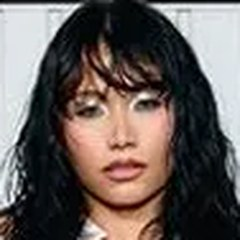
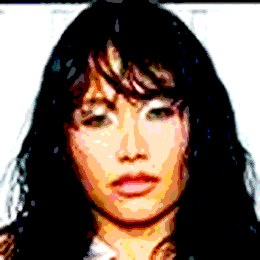
Telefonda kasmayı azalt, kalp fotoğrafları büyüt, balonları indir
- Çizgi film filtresi ve kalp kesimi/gölgesi resimlere önceden uygulandı (runtime SVG filtre ve clip-path yok)
- Spot ışıklarındaki blend, buzlu cam (backdrop-filter), başlık glitch'i ve sabit arka plan kaldırıldı
- Konfeti ve süzülen nesneler azaltıldı, vuruş efektleri Web Animations ile
- Kalp fotoğraflar büyütüldü, konuşma balonları kafalara yaklaştırıldı

diff --git a/style.css b/style.css
@@ -28,7 +28,7 @@ html, body {
 body {
   font-family: "Quicksand", system-ui, sans-serif;
   color: var(--text);
-  background: radial-gradient(ellipse at top, var(--bg-3) 0%, var(--bg-2) 45%, var(--bg-1) 100%) fixed;
+  background: radial-gradient(ellipse at top, var(--bg-3) 0%, var(--bg-2) 45%, var(--bg-1) 100%);
   -webkit-tap-highlight-color: transparent;
   touch-action: manipulation;
 }
@@ -52,10 +52,10 @@ body {
   width: 70vmax;
   height: 130vh;
   pointer-events: none;
-  background: linear-gradient(to bottom, rgba(255, 255, 255, 0.55), rgba(255, 255, 255, 0) 85%);
+  background: linear-gradient(to bottom, rgba(255, 255, 255, 0.22), rgba(255, 255, 255, 0) 85%);
   clip-path: polygon(47% 0, 53% 0, 100% 100%, 0 100%);
   transform-origin: 50% 0;
-  mix-blend-mode: soft-light;
+  will-change: transform;
   opacity: 0;
   transition: opacity 1s;
 }
@@ -135,7 +135,7 @@ button { font: inherit; cursor: pointer; border: 0; background: none; color: inh
   width: 1px; height: 70px;
   background: rgba(255, 255, 255, 0.5);
 }
-.photo-float { width: 60px; height: 60px; clip-path: url(#heartClip); object-fit: cover; opacity: 0.5; }
+.photo-float { width: 60px; height: 60px; object-fit: contain; opacity: 0.6; }
 
 /* ---------- Açılış ---------- */
 #gate {
@@ -266,32 +266,9 @@ button { font: inherit; cursor: pointer; border: 0; background: none; color: inh
   animation: wobble 2.6s ease-in-out infinite;
 }
 .title .name { color: var(--gold); display: inline-block; animation: nameZoom 1.3s ease-in-out infinite; }
-.title::before, .title::after {
-  content: attr(data-text);
-  position: absolute;
-  inset: 0;
-  white-space: pre-line;
-  text-shadow: none;
-  opacity: 0;
-  pointer-events: none;
-}
-.title::before { color: #00f0ff; animation: glitchA 3.2s steps(1) infinite; }
-.title::after { color: #ff2d75; animation: glitchB 3.2s steps(1) infinite; }
 
 @keyframes wobble { 0%, 100% { transform: rotate(-2deg); } 50% { transform: rotate(2deg); } }
 @keyframes nameZoom { 0%, 100% { transform: scale(1); } 50% { transform: scale(1.12) rotate(-3deg); } }
-@keyframes glitchA {
-  0%, 86%, 100% { opacity: 0; }
-  87% { opacity: 0.85; transform: translate(-5px, 2px); clip-path: inset(10% 0 55% 0); }
-  90% { opacity: 0.85; transform: translate(4px, -2px); clip-path: inset(60% 0 8% 0); }
-  93% { opacity: 0.85; transform: translate(-3px, 0); clip-path: inset(35% 0 35% 0); }
-}
-@keyframes glitchB {
-  0%, 87%, 100% { opacity: 0; }
-  88% { opacity: 0.85; transform: translate(5px, -1px); clip-path: inset(50% 0 20% 0); }
-  91% { opacity: 0.85; transform: translate(-4px, 2px); clip-path: inset(5% 0 70% 0); }
-  94% { opacity: 0.85; transform: translate(3px, 1px); clip-path: inset(70% 0 5% 0); }
-}
 
 .title.beat { animation: beatPop 0.25s ease-out; }
 @keyframes beatPop { from { transform: scale(1.08); } to { transform: scale(1); } }
@@ -427,7 +404,7 @@ button { font: inherit; cursor: pointer; border: 0; background: none; color: inh
   text-shadow: 3px 3px 0 var(--ink);
   animation: micPulse 1s ease-in-out infinite;
 }
-@keyframes micPulse { 0%, 100% { transform: scale(1); } 50% { transform: scale(1.12) rotate(-2deg); color: var(--gold); } }
+@keyframes micPulse { 0%, 100% { transform: scale(1); } 50% { transform: scale(1.12) rotate(-2deg); } }
 
 /* ---------- Karakterler ---------- */
 .stage { position: absolute; left: 0; right: 0; bottom: 0; height: var(--stage-h); z-index: 3; pointer-events: none; }
@@ -487,7 +464,7 @@ button { font: inherit; cursor: pointer; border: 0; background: none; color: inh
 @keyframes enterRight { from { transform: translateX(100vw); } to { transform: none; } }
 @keyframes dropIn { from { transform: translateY(-110vh) rotate(-30deg); } to { transform: none; } }
 
-.char-inner { position: relative; animation: var(--idle); transform-origin: 50% 100%; }
+.char-inner { position: relative; animation: var(--idle); transform-origin: 50% 100%; will-change: transform; }
 .char:nth-child(2n) .char-inner { animation-duration: 0.38s; }
 .char:nth-child(3n) .char-inner { animation-duration: 0.52s; }
 
@@ -511,7 +488,6 @@ button { font: inherit; cursor: pointer; border: 0; background: none; color: inh
   object-position: var(--pos, 50% 30%);
   transform: scale(var(--zoom, 1));
 }
-.toon .char-head img { filter: url(#toon) saturate(1.5) contrast(1.15); }
 .face-emoji { display: grid; place-items: center; width: 100%; height: 100%; font-size: calc(var(--size) * 0.72); line-height: 1; }
 
 .char-hat {
@@ -619,16 +595,16 @@ button { font: inherit; cursor: pointer; border: 0; background: none; color: inh
 .bubble {
   --shift: 0px;
   position: absolute;
-  bottom: calc(100% + 16px);
+  bottom: calc(100% + 4px);
   left: 50%;
   width: max-content;
-  max-width: min(64vw, 250px);
-  padding: 8px 13px;
+  max-width: min(86vw, 330px);
+  padding: 6px 12px;
   border-radius: 16px;
   background: #fff;
   color: var(--ink);
   font-weight: 700;
-  font-size: clamp(0.85rem, 3.6vw, 1rem);
+  font-size: clamp(0.8rem, 3.4vw, 1rem);
   line-height: 1.25;
   text-align: center;
   border: 3px solid var(--ink);
@@ -719,7 +695,6 @@ button { font: inherit; cursor: pointer; border: 0; background: none; color: inh
   left: var(--x);
   top: var(--y);
   translate: -50% -50%;
-  filter: drop-shadow(0 6px 10px rgba(0, 0, 0, 0.4)) drop-shadow(0 0 1px #fff);
   cursor: pointer;
   opacity: 0;
   transform: translate(var(--fromX), var(--fromY)) scale(0.2) rotate(var(--rot));
@@ -731,8 +706,7 @@ button { font: inherit; cursor: pointer; border: 0; background: none; color: inh
   display: block;
   width: 100%;
   height: 100%;
-  object-fit: cover;
-  clip-path: url(#heartClip);
+  object-fit: contain;
   animation: heartbeat 1.8s ease-in-out infinite;
   animation-delay: var(--delay);
 }
@@ -760,11 +734,10 @@ button { font: inherit; cursor: pointer; border: 0; background: none; color: inh
   display: grid;
   place-items: center;
   background: rgba(15, 5, 30, 0.85);
-  backdrop-filter: blur(6px);
   padding: 16px;
   cursor: zoom-out;
 }
-.lightbox img { width: min(86vw, 520px); aspect-ratio: 1; object-fit: cover; clip-path: url(#heartClip); animation: popHeart 0.5s cubic-bezier(.3, 1.6, .5, 1); }
+.lightbox img { width: min(86vw, 520px); aspect-ratio: 1; object-fit: contain; animation: popHeart 0.5s cubic-bezier(.3, 1.6, .5, 1); }
 @keyframes popHeart { from { transform: scale(0.2) rotate(-20deg); } to { transform: scale(1) rotate(0); } }
 
 /* ---------- Müzik ---------- */
@@ -776,9 +749,8 @@ button { font: inherit; cursor: pointer; border: 0; background: none; color: inh
   width: 42px; height: 42px;
   border-radius: 50%;
   font-size: 1.15rem;
-  background: var(--card);
+  background: rgba(27, 16, 53, 0.55);
   border: 1px solid var(--card-border);
-  backdrop-filter: blur(6px);
 }
 
 /* ---------- Ekran boyutları ---------- */

diff --git a/script.js b/script.js
@@ -29,9 +29,9 @@
   function sideCannons(duration = 2500, colors = COLORS) {
     const end = Date.now() + duration;
     (function frame() {
-      fire({ particleCount: 4, angle: 60, spread: 60, startVelocity: 60, origin: { x: 0, y: 0.75 }, colors });
-      fire({ particleCount: 4, angle: 120, spread: 60, startVelocity: 60, origin: { x: 1, y: 0.75 }, colors });
-      if (Date.now() < end) setTimeout(frame, 16);
+      fire({ particleCount: 3, angle: 60, spread: 60, startVelocity: 60, origin: { x: 0, y: 0.75 }, colors, ticks: 150 });
+      fire({ particleCount: 3, angle: 120, spread: 60, startVelocity: 60, origin: { x: 1, y: 0.75 }, colors, ticks: 150 });
+      if (Date.now() < end) setTimeout(frame, 45);
     })();
   }
 
@@ -44,7 +44,7 @@
     for (let i = 0; i < times; i++) {
       setTimeout(() => {
         fire({
-          particleCount: 70,
+          particleCount: 40,
           spread: 360,
           startVelocity: 32,
           ticks: 80,
@@ -153,7 +153,6 @@
 
   // Başta sahnede sadece taçlı Hikmet var
   function spawnHero() {
-    if (cfg.toon) document.body.classList.add("toon");
     heroEl = makeChar(cfg.hero || {}, { hero: true, face: "🥳", x: 50, enter: "enter-d", delay: 0.2 });
     $("#stage").appendChild(heroEl);
   }
@@ -298,7 +297,7 @@
     shake();
     fireworks(6);
     sideCannons(2000);
-    setTimeout(() => emojiRain(35), 300);
+    setTimeout(() => emojiRain(22), 300);
     await sleep(400);
     $(".cake-wrap").hidden = true;
     startConcert();
@@ -370,6 +369,10 @@
     crewEls.forEach((ch, i) => (ch.style.left = `${FORMATIONS[f][i]}%`));
   }
 
+  const BEAT_HEAD = [{ transform: "scale(1.18)" }, { transform: "scale(1)" }];
+  const BEAT_POP = [{ scale: "1.05" }, { scale: "1" }];
+  const pulse = (el, frames) => el && el.animate && el.animate(frames, { duration: 260, easing: "ease-out" });
+
   function onBeat() {
     if (phase !== "concert") return;
     beatCount++;
@@ -377,10 +380,10 @@
 
     crewEls.forEach((ch) => {
       ch.style.marginLeft = `${step}px`; // sağ-sol adım
-      restartClass(ch, "beat");
+      pulse(ch.querySelector(".char-head"), BEAT_HEAD);
     });
-    restartClass($("#title"), "beat");
-    restartClass($("#photoHeart"), "beat");
+    pulse($("#title"), BEAT_POP);
+    pulse($("#photoHeart"), BEAT_POP);
 
     // Her 4 vuruşta hepsi aynı hareket
     if (beatCount % 4 === 0) {
@@ -763,7 +766,8 @@
     const yMax = Math.max(...ys);
     const yMid = (yMin + yMax) / 2;
 
-    const size = Math.min(W * 0.22, H * 0.3, ((W * 2.75) / items.length) * 1.05);
+    // Kalp resimlerinin kenarında gölge payı var, biraz üst üste binmeleri sorun değil
+    const size = Math.min(W * 0.3, H * 0.38, ((W * 2.75) / items.length) * 1.4);
     const scale = Math.min((W - size) / 32, (H - size) / (yMax - yMin));
     items.forEach((el) => {
       el.style.setProperty("--size", `${size}px`);
@@ -786,7 +790,7 @@
   const CONCERT_EMOJI = ["🩷", "💖", "🎤", "🎀", "💅", "✨", "🌸"];
 
   function spawnFloater() {
-    if (document.hidden || floaters.childElementCount > 22) return;
+    if (document.hidden || floaters.childElementCount > 12) return;
     const roll = Math.random();
     let el;
     if (roll < 0.3) {
@@ -846,7 +850,7 @@
       requestAnimationFrame(fitCake);
       setTimeout(fitCake, 1400); // yazı tipi yüklendikten sonra tekrar
       sideCannons(2000);
-      setInterval(spawnFloater, 800);
+      setInterval(spawnFloater, 1200);
       setTimeout(startAmbient, 2500);
 
       phase = "cake";

diff --git a/config.js b/config.js
@@ -8,9 +8,6 @@ window.BIRTHDAY = {
   // Pastadaki mum sayısı (1-12)
   candles: 6,
 
-  // Yüzleri çizgi film gibi göstermek için (renkleri sertleştirir)
-  toon: true,
-
   // Mikrofona üfleyemezse "tuşa basarak üfle" butonu kaç saniye sonra çıksın
   micFallbackDelay: 10,
 
@@ -44,17 +41,7 @@ window.BIRTHDAY = {
   ],
 
   // Pasta söndükten sonra kalp şeklinde çıkan fotoğraflar.
+  // photos/N.jpg dosyalarından hazırlanan kalp kesimli halleri (telefonda kasmasın diye önceden kesildi).
   // Az fotoğraf varsa kalbi doldurmak için tekrar edilir.
-  photos: [
-    "photos/4.jpg",
-    "photos/5.jpg",
-    "photos/6.jpg",
-    "photos/7.jpg",
-    "photos/8.jpg",
-    "photos/9.jpg",
-    "photos/10.jpg",
-    "photos/1.jpg",
-    "photos/2.jpg",
-    "photos/3.jpg",
-  ],
+  photos: [4, 5, 6, 7, 8, 9, 10, 1, 2, 3].map((n) => `photos/hearts/${n}.webp`),
 };

diff --git a/index.html b/index.html
@@ -18,14 +18,6 @@
     <clipPath id="heartClip" clipPathUnits="objectBoundingBox">
       <path d="M0.5,0.94 C0.5,0.94 0.02,0.64 0.02,0.31 C0.02,0.14 0.15,0.03 0.29,0.03 C0.39,0.03 0.46,0.09 0.5,0.17 C0.54,0.09 0.61,0.03 0.71,0.03 C0.85,0.03 0.98,0.14 0.98,0.31 C0.98,0.64 0.5,0.94 0.5,0.94 Z" />
     </clipPath>
-    <!-- Yüzleri çizgi film gibi göstermek için renk basamaklama -->
-    <filter id="toon" color-interpolation-filters="sRGB">
-      <feComponentTransfer>
-        <feFuncR type="discrete" tableValues="0 0.25 0.5 0.75 0.9 1" />
-        <feFuncG type="discrete" tableValues="0 0.25 0.5 0.75 0.9 1" />
-        <feFuncB type="discrete" tableValues="0 0.25 0.5 0.75 0.9 1" />
-      </feComponentTransfer>
-    </filter>
   </svg>
 
   <div id="pink" aria-hidden="true"></div>

diff --git a/README.md b/README.md
@@ -25,7 +25,7 @@ GitHub Pages'te yayınlanan, kaotik bir doğum günü sayfası.
 
 - Fotoğraf yoksa yerine emoji surat çıkar, site yine çalışır.
 - Yüz ortada olmazsa `pos` ayarını değiştir: `"50% 20%"` yukarı, `"50% 50%"` orta demek. `zoom` büyüdükçe yüze yaklaşır.
-- `toon: true` yüzlere çizgi film gibi sert renkler verir. İstemezsen `false` yap.
+- Yüzlerdeki çizgi film efekti ve kalp fotoğrafların kesimi telefonda kasmasın diye resimlerin içine önceden uygulandı (`characters/`, `photos/hearts/`).
 - Dosya adları büyük/küçük harfe duyarlıdır: `1.JPG` ile `1.jpg` aynı değildir.
 
 ### Şarkı
